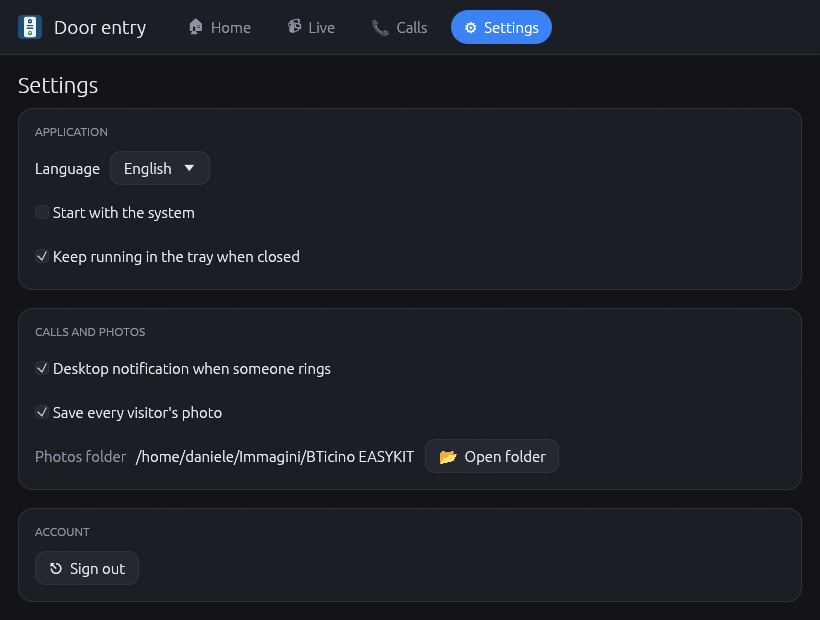
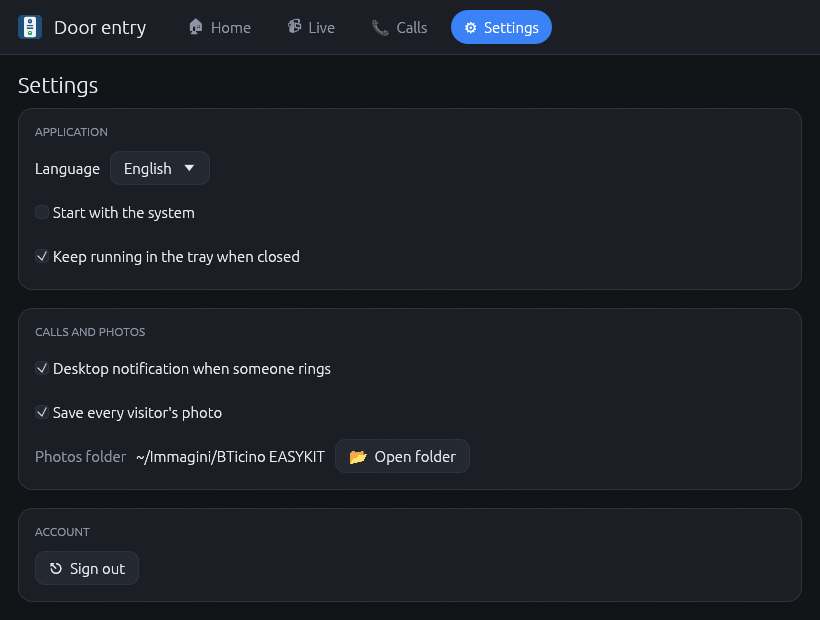
GUI: archive visitor photos also while in the tray; show the photos folder as ~/…

Changed region(s): [[0.1524, 0.7048, 0.6707, 0.7661]]

diff --git a/src/bin/gui/main.rs b/src/bin/gui/main.rs
@@ -127,8 +127,12 @@ fn main() {
             for u in updates {
                 if app::apply(&mut g.state, u, lang) {
                     let p = g.state.ring.as_ref().map(|r| r.0.clone()).unwrap_or_default();
-                    if Settings::load().notify_on_ring {
+                    let settings = Settings::load();
+                    if settings.notify_on_ring {
                         notify_ring(&p, lang);
+                    }
+                    if settings.save_visitor_photos {
+                        app::archive_ring(&p);
                     }
                     hidden = false;
                 }

diff --git a/src/bin/gui/app.rs b/src/bin/gui/app.rs
@@ -960,7 +960,7 @@ impl App {
             ui.checkbox(&mut self.settings.save_visitor_photos, t(lang, "settings.photos"));
             ui.horizontal(|ui| {
                 ui.label(theme::muted(t(lang, "settings.photos_dir")));
-                ui.label(Settings::photos_dir().display().to_string());
+                ui.label(images::display_path(&Settings::photos_dir()));
                 if ui.button(format!("📂  {}", t(lang, "events.open_folder"))).clicked() {
                     images::open_folder(&Settings::photos_dir());
                 }

diff --git a/src/bin/gui/images.rs b/src/bin/gui/images.rs
@@ -119,6 +119,14 @@ pub fn archive(url: String, unix: i64, dir: PathBuf) {
     });
 }
 
+/// `~/…` instead of the full home path (shorter, and no user name in screenshots).
+pub fn display_path(p: &Path) -> String {
+    match dirs::home_dir().and_then(|h| p.strip_prefix(h).ok().map(Path::to_path_buf)) {
+        Some(rest) => format!("~{}{}", std::path::MAIN_SEPARATOR, rest.display()),
+        None => p.display().to_string(),
+    }
+}
+
 pub fn open_folder(dir: &Path) {
     let _ = std::fs::create_dir_all(dir);
     #[cfg(windows)]
